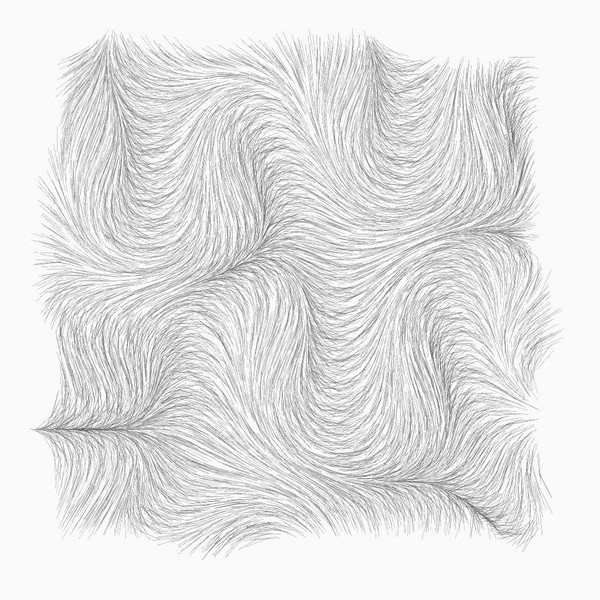
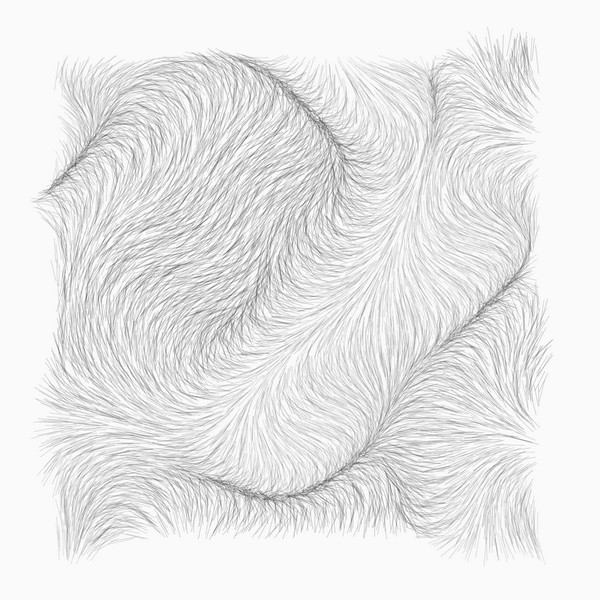
optimize 018_hair

diff --git a/src/018_hair.js b/src/018_hair.js
@@ -18,7 +18,13 @@ const sketch = ({ width, height }) => {
     for (let y = 0; y < 1; y += step) {
         const row = [];
         for (let x = 0; x < 1; x += step) {
-            row.push([x + random.range(-step, step), y + random.range(-step, step)]);
+            row.push([
+                x + random.range(-step, step),
+                y + random.range(-step, step),
+                random.range(0.7, 1), // for hair length
+                random.range(0.9, 1), // for rotation
+                random.value(), // for hair width
+            ]);
         }
         matrix.push(row);
     }
@@ -28,24 +34,19 @@ const sketch = ({ width, height }) => {
         context.fillStyle = 'hsl(0, 0%, 98%)';
         context.fillRect(0, 0, width, height);
 
-        context.lineWidth = width * 0.0001;
-
-        matrix.forEach(row => {
-            row.forEach(p => {
+        for (const row of matrix) {
+            for (const p of row) {
                 const rI = random.noise2D(p[0] + time / 5, p[1], 1.5) / 2 + 0.5;
-                context.save();
+                const rotateF = rI * Math.PI * 2 * p[3];
+                const lineWidth = width * 0.05 * p[2];
                 context.beginPath();
-                context.translate(x(p[0]), y(p[1]));
-                context.rotate(rI * Math.PI * 2);
-                context.strokeStyle = `hsl(0,0%,${20 + rI * 20}%)`;
+                context.lineWidth = (20 + rI * 20) * width * 0.000005 * (p[4] > 0.5 ? 1 : 1.18);
 
-                context.moveTo(0, 0);
-                context.lineTo(width * 0.05 * random.range(0.8, 1), 0);
-
+                context.moveTo(x(p[0]), y(p[1]));
+                context.lineTo(x(p[0]) + Math.cos(rotateF) * lineWidth, y(p[1]) + Math.sin(rotateF) * lineWidth);
                 context.stroke();
-                context.restore();
-            });
-        });
+            }
+        }
     };
 };
 

diff --git a/src/examples/fps_show.js b/src/examples/fps_show.js
@@ -1,0 +1,23 @@
+import canvasSketch from 'canvas-sketch';
+import { getPointCoordsByAngleAndDistance, isCircleInCircle, twoCirclesIntersection } from './lib/geometry';
+import Stats from 'stats.js';
+
+const settings = {
+    dimensions: [1024, 1024],
+    animate: true,
+};
+
+const sketch = async ({ width, height }) => {
+    const stats = new Stats();
+    document.body.appendChild(stats.dom);
+
+    return ({ context, width, height, time, playhead }) => {
+        stats.begin();
+
+        // ... DRAW CODE ...
+
+        stats.end();
+    };
+};
+
+canvasSketch(sketch, settings);
